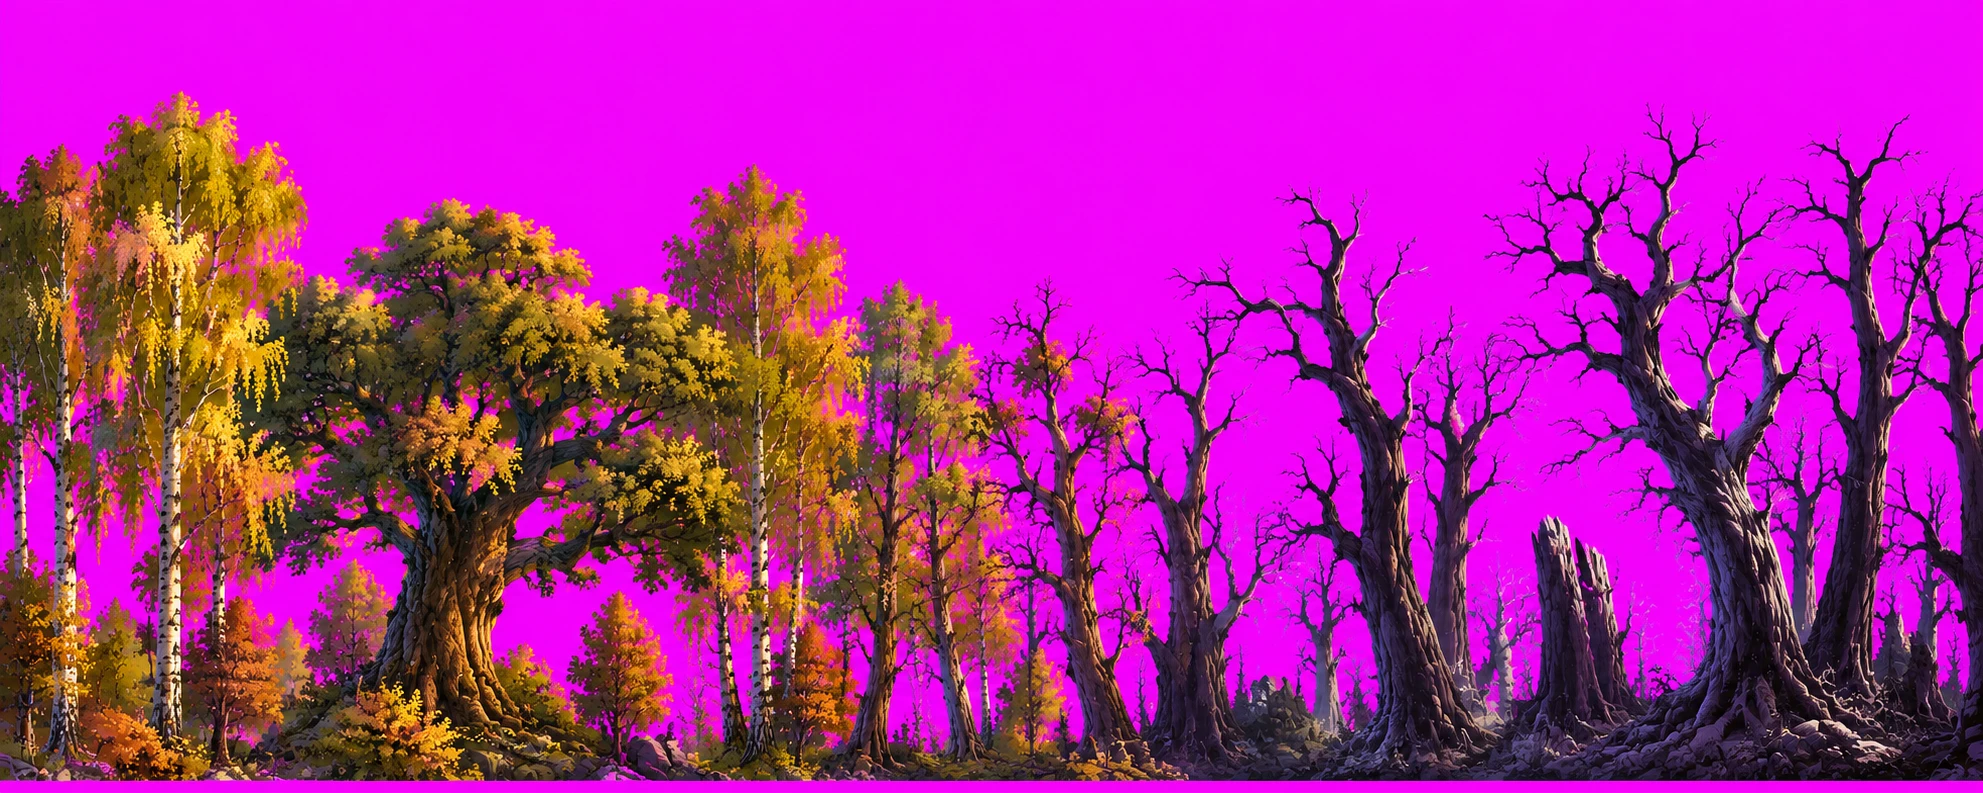
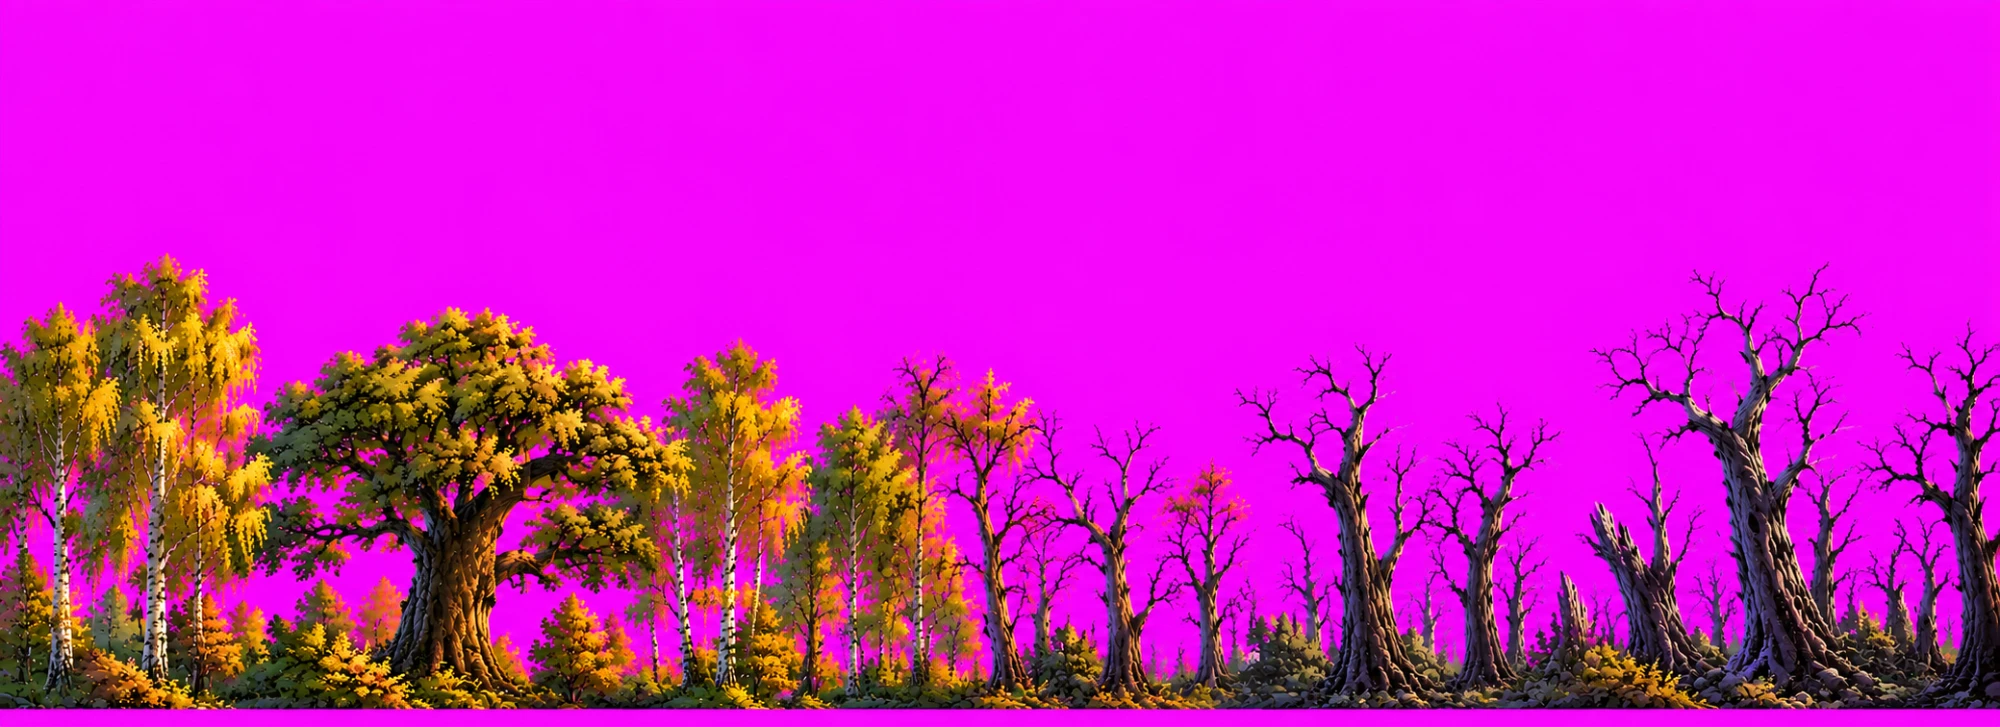
Битва легенд 2.5.3: весь арт арены — земля, камень, вороны, передний план, новый лес
- вороны: 6 кадров, выровнены по глазу (tools/process_arena_art.py)
- земля сжата по высоте, передний план — верхушки травы перед бойцами
- подложка под подсказки внизу экрана

Claude-Session: https://claude.ai/code/session_01XXCj5USGvqBwGBQWYjNQyR

diff --git a/bitva-legend/tools/process_arena_art.py b/bitva-legend/tools/process_arena_art.py
@@ -165,6 +165,32 @@ def split_objects(img: Image.Image, min_gap: int = 12, min_share: float = 0.002)
             yield trim(img.crop((left, top, right, bottom)))
 
 
+def _eye(img: Image.Image):
+    """Центр жёлтого глаза ворона (или центр картинки, если глаз не найден)."""
+    a = np.asarray(img).astype(int)
+    r, g, b, al = a[..., 0], a[..., 1], a[..., 2], a[..., 3]
+    ys, xs = np.where((r > 190) & (g > 140) & (b < 90) & (al > 200))
+    if len(xs) == 0:
+        return img.width / 2, img.height / 2
+    return float(xs.mean()), float(ys.mean())
+
+
+def align_by_eye(frames):
+    """Кадры анимации на общем холсте так, чтобы глаз был в одной точке: тело не дрожит, двигаются крылья."""
+    eyes = [_eye(f) for f in frames]
+    left = max(e[0] for e in eyes)
+    top = max(e[1] for e in eyes)
+    right = max(f.width - e[0] for f, e in zip(frames, eyes))
+    bottom = max(f.height - e[1] for f, e in zip(frames, eyes))
+    size = (round(left + right), round(top + bottom))
+    out = []
+    for f, (ex, ey) in zip(frames, eyes):
+        canvas = Image.new("RGBA", size, (0, 0, 0, 0))
+        canvas.paste(f, (round(left - ex), round(top - ey)))
+        out.append(canvas)
+    return out
+
+
 def save(img: Image.Image, name: str) -> None:
     OUT.mkdir(parents=True, exist_ok=True)
     img.save(OUT / (name + ".png"), optimize=True)
@@ -198,13 +224,8 @@ def main() -> int:
             save(cloud, f"cloud_{i}")
         done += 1
     if p := find(src, "ravens"):
-        # Кадры одной высоты, чтобы ворон не «прыгал» при взмахах.
-        frames = list(split_objects(chroma_key(Image.open(p))))
-        tallest = max(f.height for f in frames)
-        for i, f in enumerate(frames, 1):
-            canvas = Image.new("RGBA", (f.width, tallest), (0, 0, 0, 0))
-            canvas.paste(f, (0, (tallest - f.height) // 2))
-            save(resize_h(canvas, RAVEN_HEIGHT), f"raven_{i}")
+        for i, frame in enumerate(align_by_eye(list(split_objects(chroma_key(Image.open(p))))), 1):
+            save(resize_h(frame, RAVEN_HEIGHT), f"raven_{i}")
         done += 1
     print(f"Готово слоёв: {done}. Папка: {OUT}")
     return 0

diff --git a/bitva-legend/docs/ART_ARENA.md b/bitva-legend/docs/ART_ARENA.md
@@ -99,10 +99,12 @@ Wide horizontal strip of foreground vegetation for a 2D fighting game, it will b
 
 | Слой | Статус |
 |---|---|
-| sky, moon, clouds, mountains, forest | ✅ в игре (2.5.2). Исходники — `art_src/arena/` |
-| ravens, stone, ground, foreground | ждём |
+| все 9 слоёв | ✅ в игре (2.5.3). Исходники — `art_src/arena/` (первый вариант леса — `old_forest_v1.webp`) |
 
 Заметки по полученному:
+- Лес перегенерирован ниже (деревья на половину высоты) — так над бойцами больше неба.
+- Кадры ворона выравниваются по жёлтому глазу, чтобы тело не дрожало между кадрами.
+- Земля сжата по высоте до 60%, передний план опущен: видны только верхушки травы перед ногами бойцов.
 - Небо пришло 3:2 — подходит: обрезается сверху, горизонт с солнцем сохраняется.
 - Нейросеть подкрашивает края объектов розовым отсветом от пурпурного фона — скрипт это вычищает
   (полоса 10 px у краёв). Если на ваших картинках кайма всё же заметна — пишите.
